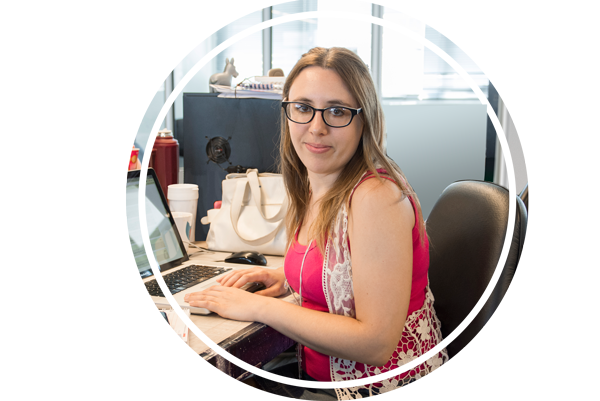
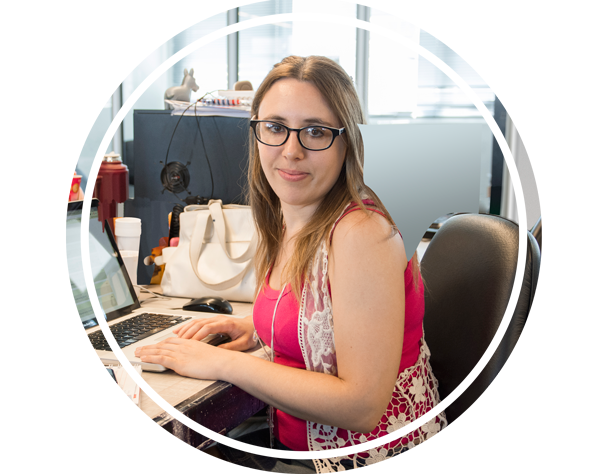
minor fixes and animations

diff --git a/index.html b/index.html
@@ -55,10 +55,10 @@
     <!--HEADER-->
     <div class="header" data-stellar-background-ratio="0.5">
         <div class="container welcome">
-            <h1 class="whitetext brandname wow fadeInUp">Vanina Greco</h1>
-            <h2 class="whitetext brandname wow fadeInUp">Diseñadora UI/UX &amp; Digital Marketer</h2>
+            <h1 class="whitetext brandname wow fadeInUp" data-wow-delay="0.2s">Vanina Greco</h1>
+            <h2 class="whitetext brandname wow fadeInUp" data-wow-delay="0.3s">Diseñadora UI/UX &amp; Digital Marketer</h2>
             <div class="row">
-                <div class="col-lg-12 blockquote statement wow fadeInUpBig">
+                <div class="col-lg-12 blockquote statement wow fadeInUpBig" data-wow-delay="0.4s">
                     <blockquote class="statement-object"><i class="fa fa-quote-left fa-2x fa-pull-left"></i>Apasionada del diseño y la tecnología, diplomada en marketing y autodidacta en desarrollo Web, hoy trabajo de lo que me gusta creando páginas web y aplicaciones móviles. <br>Con la ambición de seguir aprendiendo siempre mi perfil es hoy amplio: diseño, código, UX/UI, marketing e idiomas.<i class="fa fa-quote-right fa-2x fa-pull-right"></i></blockquote>
                 </div>
             </div>
@@ -73,14 +73,14 @@
         <div class="container">
             <div class="row">
                 <div class="col-md-6">
-                    <img class="img-responsive portrait wow fadeIn" src="Images/VaninaG.png" alt="Vanina Greco">
+                    <img class="img-responsive portrait wow fadeIn" data-wow-delay="0.3s" src="Images/VaninaG.png" alt="Vanina Greco">
                 </div>
                 <div class="col-md-6">
                     <h2 class="header2">Que puedo hacer por Ud?</h2>
                     <ul class="fa-ul">
-                        <li><i class="fa-li fa fa-check-circle"></i>Desarrollo de sitios Web y aplicaciones híbridas, incluyendo diseño de UI/UX y maquetado en HTML5 y CSS3.</li>
-                        <li><i class="fa-li fa fa-check-circle"></i>UX: Estudios de campo, bosquejos y armado de prototipos.</li>
-                        <li><i class="fa-li fa fa-check-circle"></i>Uso de frameworks como Ionic, Bootstrap o Wordpress.</li>
+                        <li class="animated-li"><i class="fa-li fa fa-check-circle"></i>Desarrollo de <strong>sitios Web</strong> y <strong>aplicaciones</strong> híbridas, incluyendo diseño de <strong>UI/UX</strong> y maquetado en <strong>HTML5</strong> y <strong>CSS3</strong>.</li>
+                        <li class="animated-li"><i class="fa-li fa fa-check-circle"></i>UX: Estudios de campo, bosquejos y armado de <strong>prototipos.</strong></li>
+                        <li class="animated-li"><i class="fa-li fa fa-check-circle"></i>Uso de frameworks como <strong>Ionic, Bootstrap o Wordpress</strong>.</li>
                         <li><i class="fa-li fa fa-check-circle"></i>Diseño de banners y landing pages.</li>
                         <li><i class="fa-li fa fa-check-circle"></i>Redacción de mensajes publicitarios (mailings, newsletters, concursos)</li>
                         <li><i class="fa-li fa fa-check-circle"></i>Manejo de posteos en redes sociales, blogs.</li>
@@ -97,7 +97,7 @@
         <div class="projects" id="">
             <div class="container">
                 <div class="row">
-                    <div class="col-lg-5 col-sm-6 padding-top">
+                    <div class="col-lg-5 col-sm-5 padding-top">
                         <div class="clearfix"></div>
                         <ul class="fa-ul">
                             <li><i class="fa-li fa fa-check-circle"></i>Conducción de entrevistas de UX (experiencia de usuario) en estudio de campo.</li>
@@ -106,8 +106,8 @@
                             <li><i class="fa-li fa fa-check-circle"></i>Armado de prototipos en alta calidad (Moqups, Invision, Sketch)</li>
                         </ul>
                     </div>
-                    <div class="col-lg-5 col-lg-offset-2 col-sm-6 hover-effect">
-                        <img class="img-responsive img-site" src="Images/Prototipos.png" alt="Prototipos UX">
+                    <div class="col-lg-7 col-sm-7 hover-effect">
+                        <img class="img-responsive img-site wow fadeIn" data-wow-delay="0.3s" src="Images/Prototipos.png" alt="Prototipos UX">
                     </div>
                 </div>
             </div>
@@ -119,7 +119,7 @@
         <div class="projects" id="">
             <div class="container">
                 <div class="row">
-                <div class="col-lg-5 col-lg-offset-1 col-sm-push-6 col-sm-6 padding-top">
+                <div class="col-lg-5 col-sm-push-7 col-sm-5 padding-top">
                         <div class="clearfix"></div>
                         <ul class="fa-ul">
                             <li><i class="fa-li fa fa-check-circle"></i>Maquetado de aplicaciones móviles híbridas (IOs y Android) con Ionic, HTML5 & CSS3.</li>
@@ -128,8 +128,8 @@
                             <li><i class="fa-li fa fa-check-circle"></i>Preparado de piezas gráficas (banners, imágenes promocionales) en Illustrator & Photoshop.</li>
                         </ul>
                     </div>
-                    <div class="col-lg-5 col-sm-pull-6 col-sm-6 hover-effect">
-                        <img class="img-responsive img-site" src="Images/AppPortafolio.png" alt="Aplicaciones Hibridas">
+                    <div class="col-lg-7 col-sm-pull-5 col-sm-7 hover-effect">
+                        <img class="img-responsive img-site wow fadeIn" data-wow-delay="0.3s" src="Images/AppPortafolio.png" alt="Aplicaciones Hibridas">
                     </div>
                 </div>
             </div>
@@ -151,7 +151,7 @@
                         </ul>
                     </div>
                     <div class="col-lg-5 col-lg-offset-2 col-sm-6 hover-effect">
-                        <a href="http://www.tiempodeluna-qigong.com/" target="_blank"><img class="img-responsive img-site" src="Images/TiempodeLunaWordpress.png" alt="Sitio Tiempo de Luna Qi Gong"></a>
+                        <a href="http://www.tiempodeluna-qigong.com/" target="_blank"><img class="img-responsive img-site wow fadeIn" data-wow-delay="0.3s" src="Images/TiempodeLunaWordpress.png" alt="Sitio Tiempo de Luna Qi Gong"></a>
                     </div>
                 </div>
             </div>
@@ -172,7 +172,7 @@
                         </ul>
                     </div>
                     <div class="col-lg-5 col-sm-pull-6 col-sm-6">
-                        <a href="http://www.lareserva-elfoyel.com.ar/" target="_blank"><img class="img-responsive img-site" src="Images/LaReservaLaptop.png" alt="Sitio La Reserva El Foyel"></a>
+                        <a href="http://www.lareserva-elfoyel.com.ar/" target="_blank"><img class="img-responsive img-site wow fadeIn" data-wow-delay="0.3s" src="Images/LaReservaLaptop.png" alt="Sitio La Reserva El Foyel"></a>
                     </div>
                 </div>
             </div>
@@ -296,8 +296,8 @@
                     </ul>
                 </div>
                 <div class="col-sm-6 col-md-4">
-                    <img class="img-responsive img-hobbies visible-md visible-lg wow fadeIn" src="Images/FotosHobbiesRight.jpg" alt="Hobbies">
-                    <img class="img-responsive img-hobbies visible-sm visible-xs wow fadeIn" src="Images/FotosHobbiesSmall.jpg" alt="Hobbies">
+                    <img class="img-responsive img-hobbies visible-md visible-lg wow fadeIn" data-wow-delay="0.5s" src="Images/FotosHobbiesRight.jpg" alt="Hobbies">
+                    <img class="img-responsive img-hobbies visible-sm visible-xs wow fadeIn" data-wow-delay="0.5s" src="Images/FotosHobbiesSmall.jpg" alt="Hobbies">
                 </div>
             </div>
         </div>
@@ -347,7 +347,7 @@
                             <a href="#contact">Contacto</a>
                         </li>
                     </ul>
-                    <p class="copyright text-muted small">Copyright &copy; VBG 2016. All Rights Reserved</p>
+                    <p class="copyright text-muted small">Copyright &copy; VBG 2017. All Rights Reserved</p>
                 </div>
             </div>
         </div>

diff --git a/CSS/styles.css b/CSS/styles.css
@@ -22,7 +22,8 @@ h3 {
 }
 
 body {
-    line-height: 22px;
+    line-height: 24px;
+    font-size: 16px;
 }
 
 .navbar-custom {
@@ -103,6 +104,12 @@ body {
     max-width: 450px;
 }
 
+@media screen and (max-width: 500px) and (min-width: 300px) {
+    .portrait {
+        max-width: 100%;
+    }
+}
+
 .hover-effect {
     position: relative;
     overflow: hidden;
@@ -124,6 +131,10 @@ body {
     .btn-div {
         left: 35%;
     }
+}
+
+.animated-li:hover strong {
+    color: #a455d1;
 }
 
 .vmiddle {

diff --git a/JS/script.js b/JS/script.js
@@ -40,3 +40,11 @@ $(".btn").hover(
     });
 
 
+/*Hover on text*/
+// $( ".animated-li strong" ).hover(
+//   function() {
+//     $( this ).addClass( "animated pulse" );
+//   }, function() {
+//     $( this ).removeClass( "animated pulse" );
+//   }
+// );
